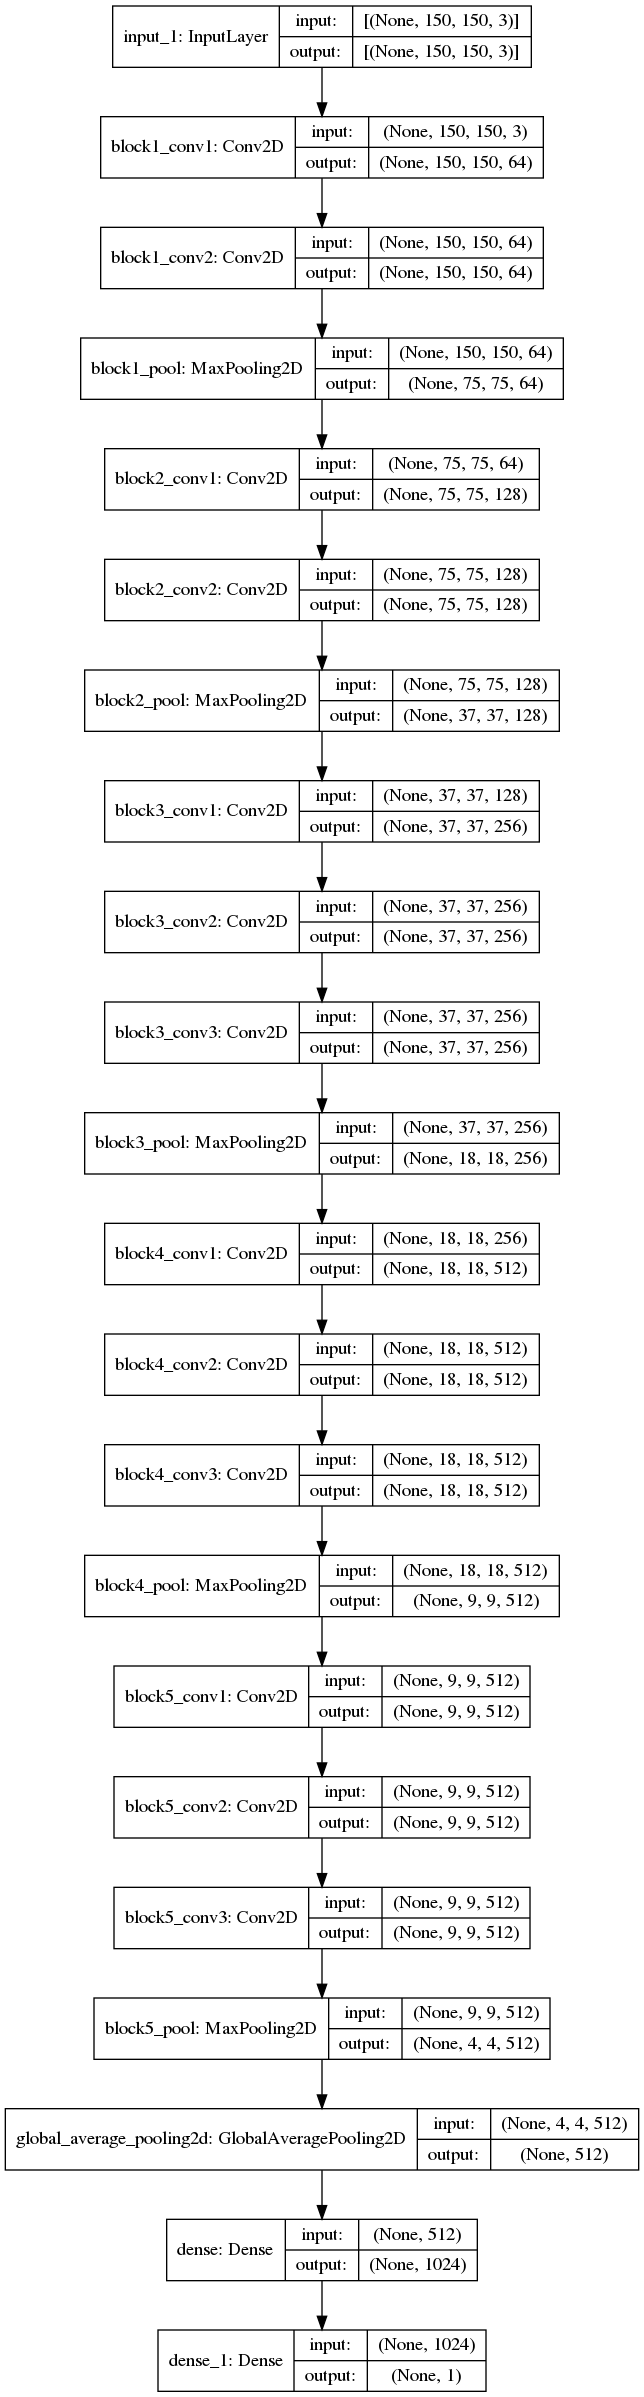
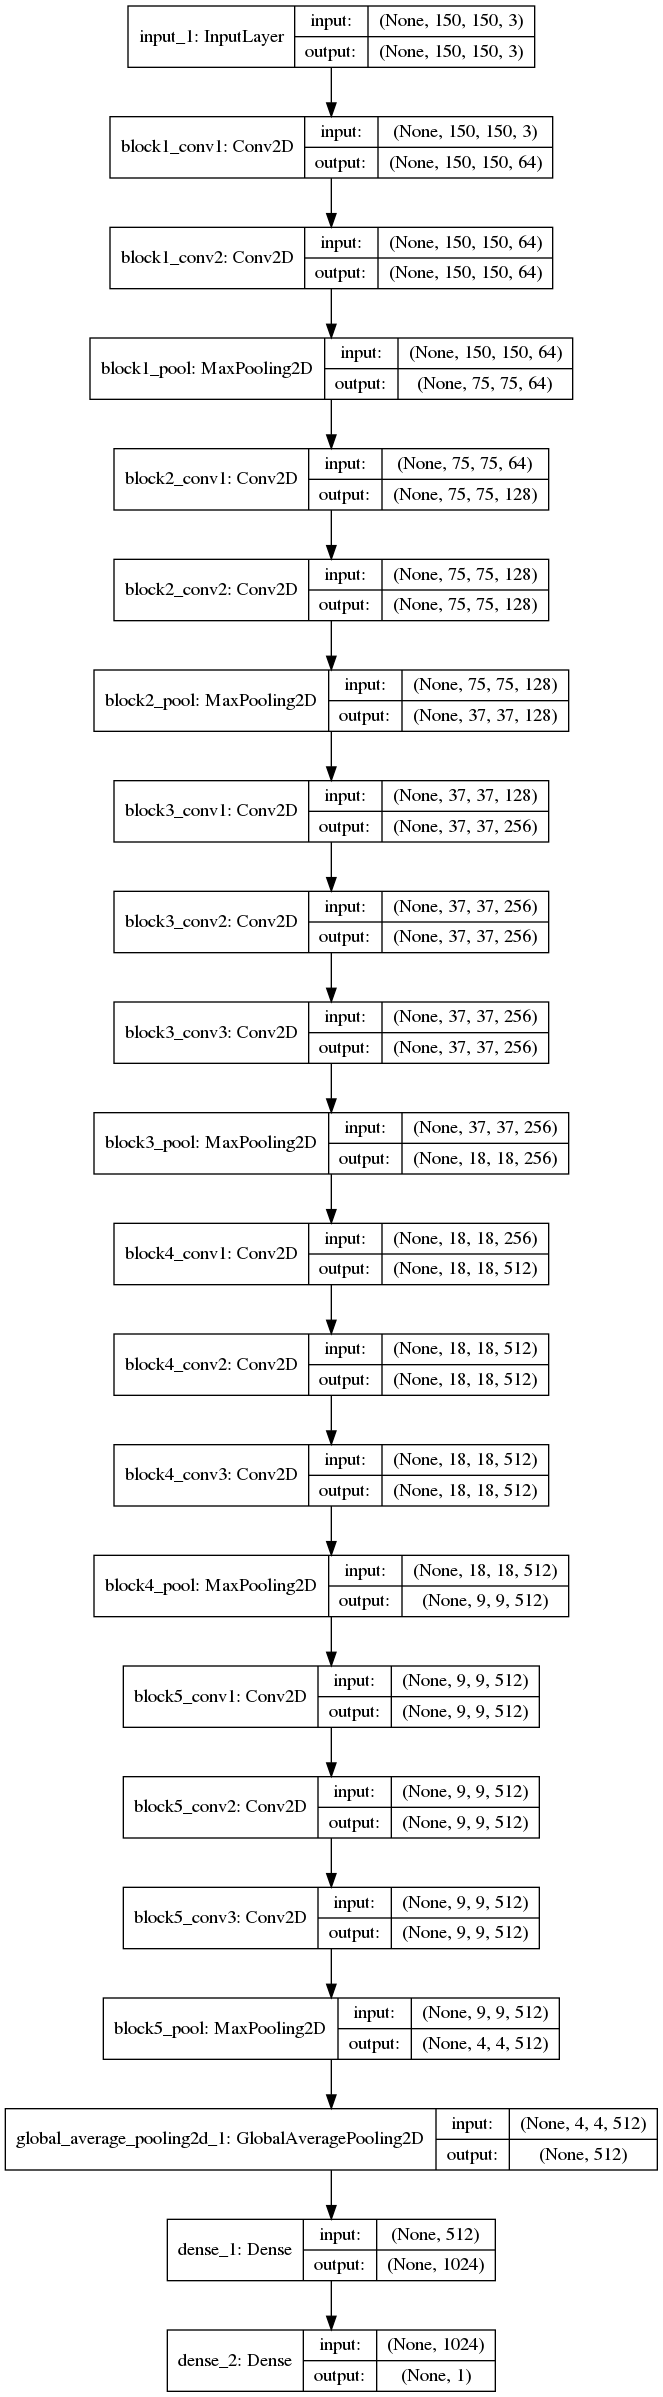
update; entire code

diff --git a/dogs-vs-cats/train_keras.py b/dogs-vs-cats/train_keras.py
@@ -1,16 +1,31 @@
+from __future__ import print_function
 
-
-
-from __future__ import absolute_import, division, print_function, unicode_literals
+# --------------------------------------------
+#  CNNs classifier to classify dogs and cats.
+#  Train the model by transfer learning 
+#  using VGG16 with imagenet weights
+#
+#    (c) Keishi Ishihara
+# --------------------------------------------
 
 import tensorflow as tf
-from tensorflow.keras.models import Sequential, Model
-from tensorflow.keras.layers import Dense, Conv2D, Flatten, Dropout, MaxPooling2D, GlobalAveragePooling2D, Input
-from tensorflow.keras.preprocessing.image import ImageDataGenerator
+from keras import backend as K
+config = tf.ConfigProto()
+config.gpu_options.allow_growth = True
+sess = tf.Session(config=config)
+K.set_session(sess)
 
-from tensorflow import keras
-from tensorflow.keras.optimizers import SGD
-from tensorflow.keras.applications.vgg16 import VGG16
+import keras
+from keras.models import Sequential, Model
+from keras.layers import Dense, Conv2D, Flatten, Dropout, MaxPooling2D, GlobalAveragePooling2D, Input
+from keras.preprocessing.image import ImageDataGenerator
+from keras.callbacks import ModelCheckpoint
+from callbacks import LearningHistoryCallback, plot_confusion_matrix
+from get_best_model import getNewestModel
+from keras.optimizers import SGD
+from keras.applications.vgg16 import VGG16
+# from keras.applications.resnet50 import ResNet50
+
 import os, sys
 import numpy as np
 import matplotlib.pyplot as plt
@@ -29,7 +44,6 @@ train_cats_dir = os.path.join(train_dir, 'cats')            # directory with our
 train_dogs_dir = os.path.join(train_dir, 'dogs')            # directory with our training dog pictures
 validation_cats_dir = os.path.join(validation_dir, 'cats')  # directory with our validation cat pictures
 validation_dogs_dir = os.path.join(validation_dir, 'dogs')  # directory with our validation dog pictures
-
 
 num_cats_tr = len(os.listdir(train_cats_dir))
 num_dogs_tr = len(os.listdir(train_dogs_dir))
@@ -52,9 +66,10 @@ print("Total validation images:", total_val)
 # ---------------------------------
 #  Prepare data generator
 
+show_samples = False
 prefix = 'test'
-batch_size = 128
-epochs = 3
+batch_size = 64
+epochs = 2
 IMG_HEIGHT = 150
 IMG_WIDTH = 150
 
@@ -75,80 +90,80 @@ val_data_gen = validation_image_generator.flow_from_directory(batch_size=batch_s
 
 # This function will plot images in the form of a grid 
 # with 1 row and 5 columns where images are placed in each column.
-def plotImages(images_arr):
+def plotImages(images_arr, fname):
     fig, axes = plt.subplots(1, 5, figsize=(20,20))
     axes = axes.flatten()
     for img, ax in zip( images_arr, axes):
         ax.imshow(img)
         ax.axis('off')
     plt.tight_layout()
-    plt.show()
+    plt.savefig(fname)
 
-# sample_training_images, hoge = next(train_data_gen)
-# plotImages(sample_training_images[:5])
-# print(label[:5])
+if show_samples:
+    sample_training_images, label = next(train_data_gen) # training sample
+    plotImages(sample_training_images[:5], 'ex_train.png')
+    print(label[:5])
 
-# sys.exit()
+    sample_val_images, label = next(val_data_gen) # validation sample
+    plotImages(sample_val_images[:5], 'ex_val.png')
+    print(label[:5])
+
+
+
+# ------------------------------------------------
+#  Define callbacks
+
+mc_cb = ModelCheckpoint( # this is for saving the model on each epochs when the model is better
+                filepath='models/'+prefix+'_model_{epoch:02d}_{val_loss:.2f}.hdf5',
+                monitor='val_loss',
+                verbose=1,
+                save_best_only=True, 
+                save_weights_only=False, # if True, save without optimazers to be used eg. retrain 
+                mode='auto')
+# for monitoring the training curves
+lh_cb = LearningHistoryCallback(prefix=prefix)
+callbacks = [mc_cb, lh_cb]
+
 
 # ------------------------------------------------
 #  Build Model from VGG16 trained with imagenet 
 
+## base model: VGG16 with imagenet weights
+input_tensor = Input(shape=(IMG_HEIGHT, IMG_WIDTH, 3)) # input tensor
+base_model = VGG16(weights='imagenet', include_top=False, input_tensor=input_tensor) # load vgg16 model
 
-# VGG16(model & weight)をインポート
-input_tensor = Input(shape=(IMG_HEIGHT, IMG_WIDTH, 3))
-print(input_tensor)
-base_model = VGG16(weights='imagenet', include_top=False, input_tensor=input_tensor)
-# base_model = VGG16(include_top=False, weights='imagenet')
-# base_model.summary()
-
-""" ## Using BOTTLENECK FEATURES
-# generate bottleneck feature data using VGG16
-bottleneck_feature_train = model.predict_generator(train_data_gen, verbose=1)    # training data
-bottleneck_feature_validation = model.predict_generator(val_data_gen, verbose=1) # validation data 
-
-# save bottleneck features
-train_file_name = 'train'
-validation_file_name = 'validation'
-np.save(PATH + 'bottleneck_features/' + train_file_name, bottleneck_feature_train)            # traning data
-np.save(PATH + 'bottleneck_features/' + validation_file_name, bottleneck_feature_validation)  # validation data
-
-# load bottleneck features
-train_data  = np.load(PATH + 'bottleneck_features/'  + train_file_name)
-len_input_samples = len(train_data)
-train_labels = np.array([0] * int(len_input_samples/2) + [1] * int(len_input_samples / 2))
-
-validation_data = np.load(PATH + 'bottleneck_features/'  + validation_file_name)
-validation_labels = np.array([0] * int(n_validation_samples / 2 *32) + [1] * int(n_validation_samples / 2 * 32))
-"""
-
-# # Classifier (FC layers)
+## Classifier (FC layers)
 x = base_model.output
 x = GlobalAveragePooling2D()(x)
 x = Dense(1024, activation='relu')(x)
-# predictions = Dense(N_CATEGORIES, activation='softmax')(x)
 predictions = Dense(1, activation='sigmoid')(x)
 model = Model(inputs=base_model.input, outputs=predictions)
 
-for layer in base_model.layers[:15]: # freeze base model
+# freeze base model parameters
+for layer in base_model.layers[:15]:
    layer.trainable = False
-# model.compile(optimizer=SGD(lr=0.0001, momentum=0.9), loss='categorical_crossentropy',metrics=['accuracy'])
-model.compile(loss='binary_crossentropy', 
+
+# configure the model
+model.compile(loss='binary_crossentropy',
               optimizer=SGD(lr=1e-4, momentum=0.9), 
               metrics=['accuracy'])
 
-model.summary()
+model.summary() # print model sammary in console
 keras.utils.plot_model(model, to_file='models/'+prefix+'_vgg16_tl.png', show_shapes=True) # save model architecture as png
 
-# sys.exit()
-
+# train the model
 history = model.fit_generator(
     train_data_gen,
     steps_per_epoch=total_train // batch_size,
     epochs=epochs,
     validation_data=val_data_gen,
     validation_steps=total_val // batch_size,
+    callbacks=callbacks,
     verbose=1
 )
+
+
+# model = getNewestModel('models')
 
 acc = history.history['accuracy']
 val_acc = history.history['val_accuracy']
@@ -170,7 +185,7 @@ plt.plot(epochs_range, loss, label='Training Loss')
 plt.plot(epochs_range, val_loss, label='Validation Loss')
 plt.legend(loc='upper right')
 plt.title('Training and Validation Loss')
-plt.show()
+plt.savefig('results/{}_result.png'.format(prefix))
 
 
 

diff --git a/dogs-vs-cats/callbacks.py b/dogs-vs-cats/callbacks.py
@@ -1,0 +1,131 @@
+# ------------------------------------------
+#  Callback class for training with Keras
+#
+#  (c) Keishi Ishihara
+# ------------------------------------------
+
+import os
+import numpy as np
+from  keras.callbacks import Callback
+import matplotlib.pyplot as plt
+
+class LearningHistoryCallback(Callback):
+    """Callback class for visualizing training curves"""
+    def __init__(self, prefix='test'):
+        self.prefix = prefix
+        os.makedirs('results', exist_ok=True)
+
+    # This function is called when the training begins
+    def on_train_begin(self, logs={}):
+        # Initialize the lists for holding the logs, losses and accuracies
+        self.train_losses = []
+        self.train_acc = []
+        self.val_losses = []
+        self.val_acc = []
+        self.logs = []
+
+    # This function is called at the end of each epoch
+    def on_epoch_end(self, epoch, logs={}):
+
+        # Append the logs, losses and accuracies to the lists
+        self.logs.append(logs)
+        self.train_losses.append(logs.get('loss'))
+        self.train_acc.append(logs.get('accuracy'))
+        self.val_losses.append(logs.get('val_loss'))
+        self.val_acc.append(logs.get('val_accuracy'))
+
+        # Before plotting ensure at least 2 epochs have passed
+        if epoch >= 1:
+            N = np.arange(1, epoch+2)
+
+            plt.style.use("ggplot") # other option: seaborn, seaborn-colorblind
+            fig, (axL, axR) = plt.subplots(ncols=2, figsize=(10,4))
+
+            axL.plot(N, self.train_losses, label='train_loss')
+            axL.plot(N, self.val_losses, label='val_loss')
+            axL.set_title('Training Loss')
+            axL.set_xlabel('Epoch #')
+            axL.set_ylabel('Loss')
+            axL.set_xticks(N)
+            axL.set_xticklabels(N)
+            axL.legend(loc='upper right')
+
+            axR.plot(N, self.train_acc, label='train_acc')
+            axR.plot(N, self.val_acc, label='val_acc')
+            axR.set_title('Training Accuracy')
+            axR.set_xlabel('Epoch #')
+            axR.set_ylabel('Accuracy')
+            axR.set_xticks(N)
+            axR.set_xticklabels(N)
+            axR.legend(loc='lower right')
+            plt.savefig('results/{}_training_curves.png'.format(self.prefix))
+            plt.close()
+
+
+
+# ------------------------------------------------------
+#  plot confusion matrix using matplotlib
+#  by modifying following referece:
+#
+#  Reference: Confusion matrix — scikit-learn 0.21.3 documentation
+#  https://scikit-learn.org/stable/auto_examples/model_selection/plot_confusion_matrix.html#sphx-glr-auto-examples-model-selection-plot-confusion-matrix-py
+# ------------------------------------------------------
+import matplotlib as mpl
+from sklearn.metrics import confusion_matrix
+from sklearn.utils.multiclass import unique_labels
+
+def plot_confusion_matrix(y_true, y_pred, classes,
+                          normalize=False,
+                          title=None,
+                          prefix='test',
+                          cmap=plt.cm.Blues):
+    """
+    This function prints and plots the confusion matrix.
+    Normalization can be applied by setting `normalize=True`.
+    """
+    mpl.rcParams.update(mpl.rcParamsDefault) # clear current plt style defined before
+    if not title:
+        if normalize:
+            title = 'Normalized confusion matrix'
+        else:
+            title = 'Confusion matrix, without normalization'
+
+    # Compute confusion matrix
+    cm = confusion_matrix(y_true, y_pred)
+    # Only use the labels that appear in the data
+    classes = classes[unique_labels(y_true, y_pred)]
+    if normalize:
+        cm = cm.astype('float') / cm.sum(axis=1)[:, np.newaxis] # normalize
+        print("Normalized confusion matrix")
+    else:
+        print('Confusion matrix, without normalization')
+    
+    fig, ax = plt.subplots()
+    im = ax.imshow(cm, interpolation='nearest', cmap=cmap)
+    ax.figure.colorbar(im, ax=ax)
+    ax.set_xticks(np.arange(cm.shape[1]), minor=False)
+    ax.set_yticks(np.arange(cm.shape[0]) , minor=False)
+    ax.set_ylim(9.5,-0.5)
+    ax.set(# xticks=np.arange(cm.shape[1]),
+           # yticks=np.arange(cm.shape[0])+0.5,
+           xticklabels=classes, yticklabels=classes,
+           title=title,
+           ylabel='True label',
+           xlabel='Predicted label')
+
+    # Rotate the tick labels and set their alignment.
+    plt.setp(ax.get_xticklabels(), rotation=45, ha="right",
+             rotation_mode="anchor")
+
+    # Loop over data dimensions and create text annotations.
+    fmt = '.2f' if normalize else 'd'
+    thresh = cm.max() / 2.
+    for i in range(cm.shape[0]):
+        for j in range(cm.shape[1]):
+            ax.text(j, i, format(cm[i, j], fmt),
+                    ha="center", va="center",
+                    color="white" if cm[i, j] > thresh else "black")
+
+    # fig.tight_layout()
+    plt.savefig('results/{}_confusion_matrix.png'.format(prefix))
+    plt.close

diff --git a/dogs-vs-cats/get_best_model.py b/dogs-vs-cats/get_best_model.py
@@ -1,0 +1,23 @@
+# -----------------------------------------------
+#  Best Trained Model Getter
+#
+#  Referenced from:
+#   https://qiita.com/cvusk/items/7bcd3bc2e82bb45c9e9c
+# -----------------------------------------------
+
+from __future__ import print_function
+
+import os
+from glob import glob
+from keras import models
+
+def getNewestModel(dirname):
+    target = os.path.join(dirname, '*')
+    files = [(f, os.path.getmtime(f)) for f in glob(target)]
+    if len(files) == 0:
+        return False
+    else:
+        newestModel = sorted(files, key=lambda files: files[1])[-1]
+        print('newestModel (best model) is',newestModel[0])
+        model = models.load_model(newestModel[0])
+        return model
